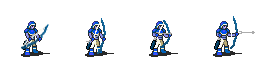
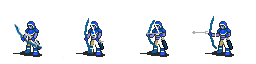
combat animations now face opponents (up/down is left)

diff --git a/core/src/pajk/game/main/java/view/CombatView.java b/core/src/pajk/game/main/java/view/CombatView.java
@@ -187,11 +187,23 @@ public class CombatView extends AbstractGameView {
     private void drawAttackAnimation(Unit unit, float frame){
         drawTile(board.getPos(unit));
         drawDamageNumber(unit, frame);
-
+        TextureRegion textureRegion;
         if(unit  == activeUnit){
-            drawAttackFrame(unit, activeUnitAnimation.getKeyFrame(frame));
+            textureRegion = activeUnitAnimation.getKeyFrame(frame);
+            if((calcDrawPos(activeUnit)[0] < calcDrawPos(targetUnit)[0]) && (!textureRegion.isFlipX())){
+                textureRegion.flip(true, false);
+            } else if(textureRegion.isFlipX()){
+                textureRegion.flip(false, false);
+            }
+            drawAttackFrame(unit, textureRegion);
         }else{
-            drawAttackFrame(unit, targetUnitAnimation.getKeyFrame(frame));
+            textureRegion = targetUnitAnimation.getKeyFrame(frame);
+            if((calcDrawPos(targetUnit)[0] < calcDrawPos(activeUnit)[0]) && (!textureRegion.isFlipX())){
+                textureRegion.flip(true, false);
+            } else if(textureRegion.isFlipX()){
+                textureRegion.flip(false, false);
+            }
+            drawAttackFrame(unit, textureRegion);
         }
 
     }
